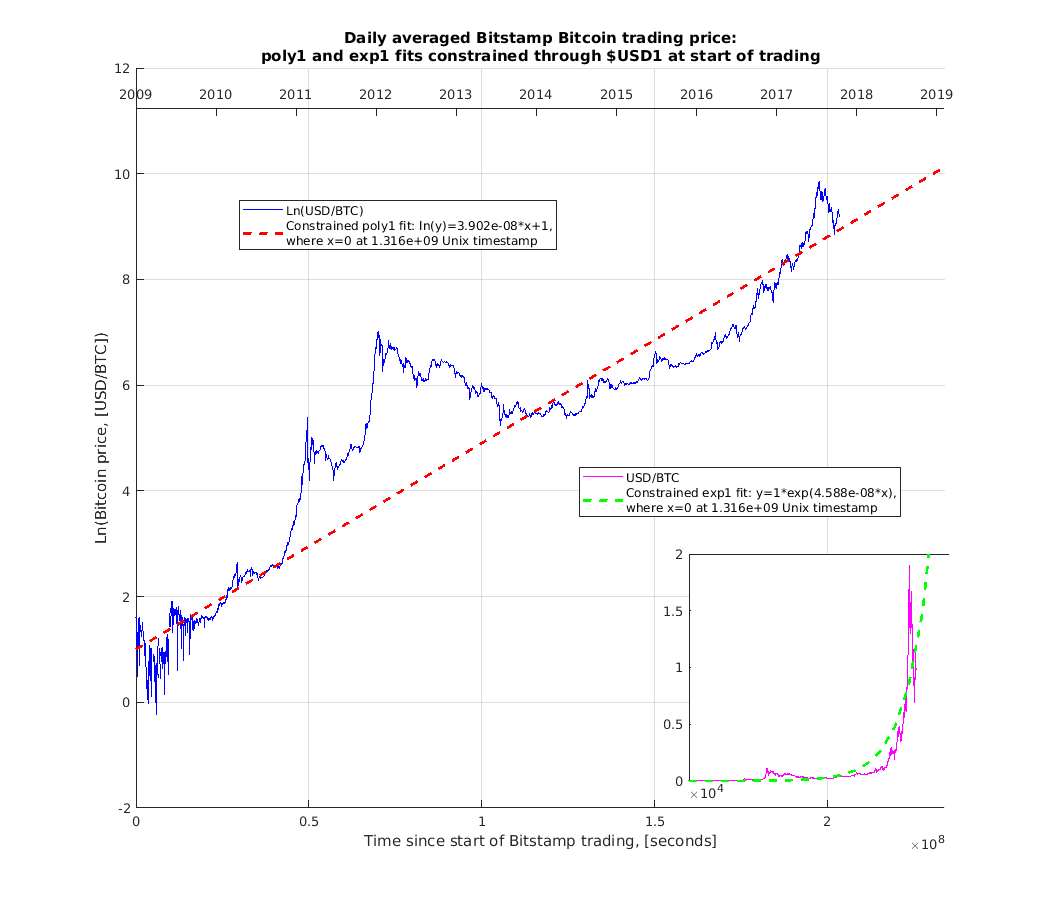
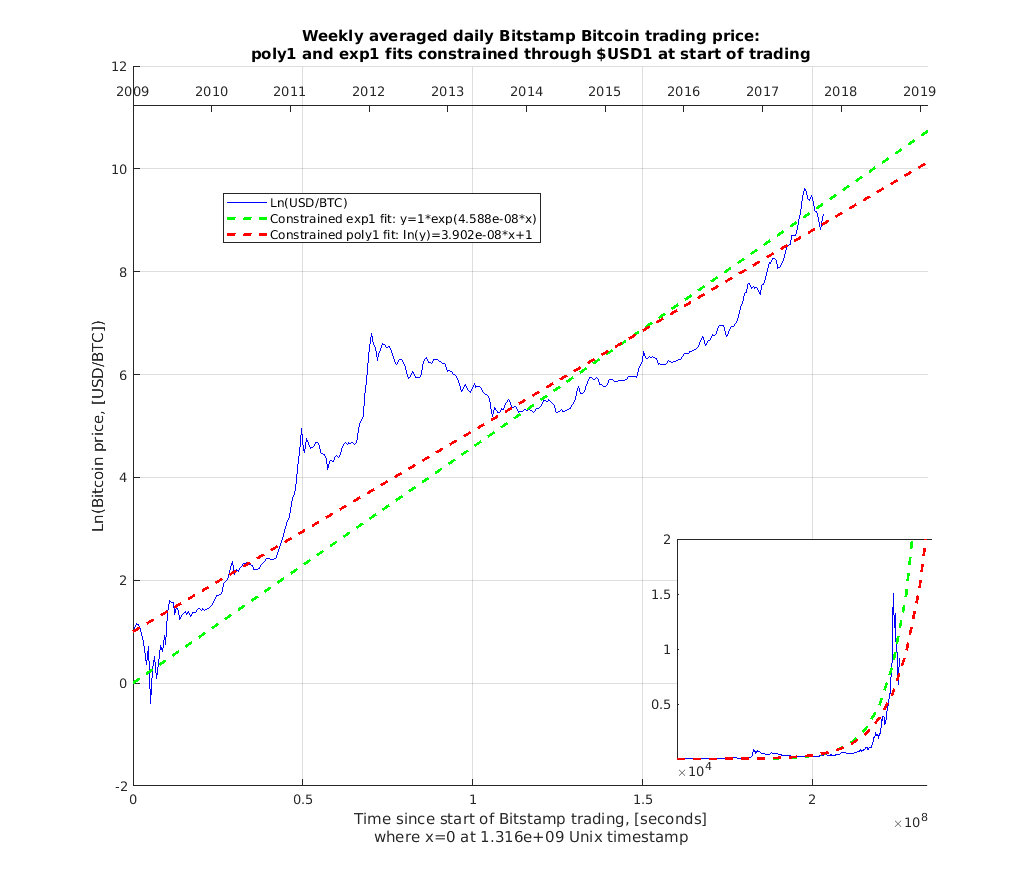
add exp1, poly1 fits to both linear, ln scales on constrained btc price figure; update figures so exp1 and poly1 are always green and red respectively;

diff --git a/functions/plotTradingStartConstrained.m b/functions/plotTradingStartConstrained.m
@@ -12,12 +12,14 @@ timeNorm(:,1) = time(:,1) - timeOfBitstamp;
 timeExt = linspace(minTime, maxTime,20);
 
 % coefficients derived from curve fitting tool, i.e.:
-    % y(x)=exp(b*x), ln(x)=p1*b + 1
+    % y(x)=1*exp(b*x), ln(x)=p1*b + 1
 b = 4.588e-08;
 p1 = 3.902E-08;
 
 fitExpExt = exp(b*timeExt);
 fitPolyExt = p1*timeExt+1;
+lnfitExpExt = log(fitExpExt);
+expfitPolyExt = exp(fitPolyExt);
 
 % Plot daily price chart
 figure(2)
@@ -28,13 +30,15 @@ ax = gca;
 xlim([minTime maxTime]);
 
 plot(timeNorm,lnPrice,'b');
+plot(timeExt,lnfitExpExt,'g--','LineWidth',2);
 plot(timeExt,fitPolyExt,'r--','LineWidth',2);
 
-title({'Daily averaged Bitstamp Bitcoin trading price:';'poly1 and exp1 fits constrained through $USD1 at start of trading'})
-xlabel('Time since start of Bitstamp trading, [seconds]')
+title({'Weekly averaged daily Bitstamp Bitcoin trading price:';'poly1 and exp1 fits constrained through $USD1 at start of trading'})
+xlabel({'Time since start of Bitstamp trading, [seconds]';sprintf('where x=0 at %.3e Unix timestamp',timeOfBitstamp)})
 ylabel('Ln(Bitcoin price, [USD/BTC])')
 legend('Ln(USD/BTC)',...
-    sprintf('Constrained poly1 fit: ln(y)=%.3e*x+1,\nwhere x=0 at %.3e Unix timestamp',p1,timeOfBitstamp));
+    sprintf('Constrained exp1 fit: y=1*exp(%.3e*x)',b),...
+    sprintf('Constrained poly1 fit: ln(y)=%.3e*x+1',p1));
 
 % axis for years
 ax2 = axes('Position',[ax.Position(1) .88 ax.Position(3) 1e-12],'XAxisLocation','top','Color','none');
@@ -46,13 +50,11 @@ ax3 = axes('Position',[.66 .14 .25 .25],...
     'YScale','linear');
 
 hold on;
-plot(timeNorm,price,'m');
+plot(timeNorm,price,'b');
 plot(timeExt,fitExpExt,'g--','LineWidth',2);
+plot(timeExt,expfitPolyExt,'r--','LineWidth',2);
 
 set(ax3,'XTick',[],'XLabel',[],'YLabel',[],...
     'XLim',[minTime maxTime],'YLim',[min(price(:)) 20000]);
-
-legend('USD/BTC',...
-    sprintf('Constrained exp1 fit: y=1*exp(%.3e*x),\nwhere x=0 at %.3e Unix timestamp',b, timeOfBitstamp));
-
+ 
 end

diff --git a/functions/plotDevInd.m b/functions/plotDevInd.m
@@ -49,8 +49,8 @@ ax1.XLim = [xmin1,xmax1];
 ax1.YLim = [min(lnpercmob(:)) max(lnpercmob(:))];
 
 plot(timemob,lnpercmob,'b');
-plot(timemob,lnfitmobexpext2001,'r--','LineWidth',2);
-plot(timemob,fitmobpolyext2001,'g--','LineWidth',2);
+plot(timemob,lnfitmobexpext2001,'g--','LineWidth',2);
+plot(timemob,fitmobpolyext2001,'r--','LineWidth',2);
 plot(timeint,lnpercint,'m');
 plot(timebrd,lnpercbrd,'c');
 
@@ -77,8 +77,8 @@ ax3 = axes('Position',[.66 .14 .25 .25],...
 
 hold on;
 plot(timemob,percmob,'b');
-plot(timemob,fitmobexpext2001,'r--','LineWidth',2);
-plot(timemob,expfitmobpolyext2001,'g--','LineWidth',2);
+plot(timemob,fitmobexpext2001,'g--','LineWidth',2);
+plot(timemob,expfitmobpolyext2001,'r--','LineWidth',2);
 plot(timeint,percint,'m');
 plot(timebrd,percbrd,'c');
 
